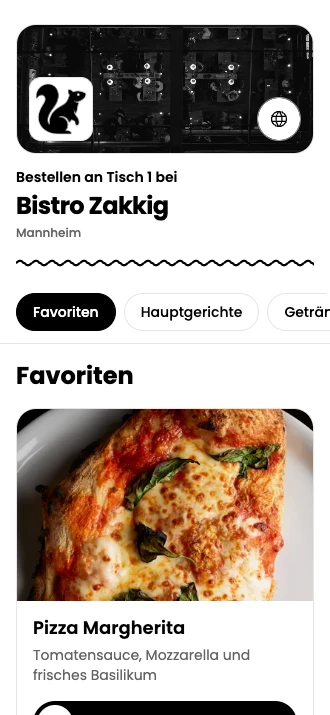
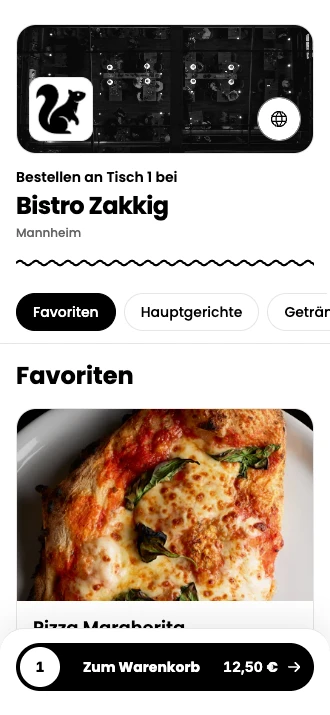
matched benefit prefix and payment fee note font size with section sublines and added single-item scenario to marketing demo and recaptured first phone product demo screenshots with one item in cart and updated design system documentation

Changed region(s): [[0.0303, 0.8615, 0.9697, 1.0]]

diff --git a/webapp/tools/marketing-demo/main.tsx b/webapp/tools/marketing-demo/main.tsx
@@ -230,23 +230,33 @@ useCartStore.setState({
   items:
     scenario === "empty-cart" || scenario === "modifiers"
       ? []
-      : [
-          {
-            id: "pizza-custom",
-            menuItemId: "pizza",
-            name: labels.dish,
-            price: 1500,
-            quantity: 1,
-            customizations: pizzaCustomizations,
-          },
-          {
-            id: "lemonade",
-            menuItemId: "lemonade",
-            name: labels.drink,
-            price: 450,
-            quantity: 1,
-          },
-        ],
+      : scenario === "single-item"
+        ? [
+            {
+              id: "pizza",
+              menuItemId: "pizza",
+              name: labels.dish,
+              price: 1250,
+              quantity: 1,
+            },
+          ]
+        : [
+            {
+              id: "pizza-custom",
+              menuItemId: "pizza",
+              name: labels.dish,
+              price: 1500,
+              quantity: 1,
+              customizations: pizzaCustomizations,
+            },
+            {
+              id: "lemonade",
+              menuItemId: "lemonade",
+              name: labels.drink,
+              price: 450,
+              quantity: 1,
+            },
+          ],
 });
 const orders = [1, 2, 3].map((n): Order => ({
   ...base,

diff --git a/website/components/MainPage.tsx b/website/components/MainPage.tsx
@@ -87,7 +87,7 @@ export function MainPage() {
           <p className="mx-auto mt-6 max-w-[38ch] text-[15px] leading-relaxed text-muted-foreground">{t("benefitService")}</p>
         </div>
         <div className="flex flex-col items-center text-center">
-          <p className="text-[13px] text-muted-foreground">{t("benefitPrefix")}</p>
+          <p className="text-[15px] text-muted-foreground">{t("benefitPrefix")}</p>
           <AnimatedBenefitStat target={30} unit="%" />
           <h3 className="text-lg font-semibold leading-[1.4] tracking-[-.02em]">{t("benefitMetric")}</h3>
           <a
@@ -143,7 +143,7 @@ export function MainPage() {
               {" "}
               <span>{t("feeLabel")}</span>
             </p>
-            <p className="mt-1.5 text-center text-xs text-muted-foreground">
+            <p className="mt-1.5 text-center text-[15px] text-muted-foreground">
               {t("feeNote")}
             </p>
           </div>

diff --git a/docs/design-system.md b/docs/design-system.md
@@ -65,7 +65,7 @@ The [website QR showcase](../website/components/QrCodeShowcase.tsx) renders a re
 <a id="ds-website"></a>
 ## DS-07: Marketing website
 
-[MainPage](../website/components/MainPage.tsx) keeps the editorial hero, QR sheet, product views, setup flow, pricing, FAQ, and signup action. [Header](../website/components/Header.tsx) uses translated native hash links and an accessible mobile menu with Escape dismissal and focus return. [ProductDemo](../website/components/ProductDemo.tsx) renders the committed DE/EN captures at standard iPhone dimensions (`w-[285px] h-[590px]`, 330x715px) and tablet dimensions (`1200x710px`) with collapsed sidebar; the second phone screen capture (`de-pay.webp`, `en-pay.webp`) demonstrates the open checkout dialog displaying the checked confirmation email toggle, focused email input field, and intermediary disclaimers without active focus rings on the close action. The page uses the shared button roles and 4px scale; static layout is authored in Tailwind JSX, with [global CSS](../website/app/globals.css) reserved for tokens and base behavior. [AnimatedBenefitStat](../website/components/AnimatedBenefitStat.tsx) animates on intersection and jumps to its target under reduced motion.
+[MainPage](../website/components/MainPage.tsx) keeps the editorial hero, QR sheet, product views, setup flow, pricing, FAQ, and signup action. [Header](../website/components/Header.tsx) uses translated native hash links and an accessible mobile menu with Escape dismissal and focus return. [ProductDemo](../website/components/ProductDemo.tsx) renders the committed DE/EN captures at standard iPhone dimensions (`w-[285px] h-[590px]`, 330x715px) and tablet dimensions (`1200x710px`) with collapsed sidebar; the first phone screen capture (`de-scan.webp`, `en-scan.webp`) demonstrates the guest menu with one item added and the bottom floating cart banner; the second phone screen capture (`de-pay.webp`, `en-pay.webp`) demonstrates the open checkout dialog displaying the checked confirmation email toggle, focused email input field, and intermediary disclaimers without active focus rings on the close action. The page uses the shared button roles and 4px scale; static layout is authored in Tailwind JSX, with [global CSS](../website/app/globals.css) reserved for tokens and base behavior. [AnimatedBenefitStat](../website/components/AnimatedBenefitStat.tsx) animates on intersection and jumps to its target under reduced motion.
 
 The website uses viewport composition breakpoints and features a unified 100% light surface hierarchy across all sections and the footer, cleanly delineated by Zakkig's signature horizontal [WaveLine](../website/components/WaveLine.tsx) dividers in solid black (`text-black`, $16\,\text{px}$ wavelength, $12\,\text{px}$ height, $4.5\,\text{px}$ amplitude) as a core visual trademark, with the footer divider serving as the sole divider above the footer. On mobile viewports, the [footer](../website/components/SiteFooter.tsx) maintains deliberate breathing room between the MARS enterprise badge and legal links, and reduced distance to the squirrel mascot. Navigation and legal links render with tracked uppercase (`uppercase tracking-[0.08em]`) for distinct wayfinding, while buttons, dialog triggers, and body text use natural casing. Its QR paper shadow is an object treatment, not general elevation. [Page](../website/components/MainPage.tsx), [QR](../website/components/QrCodeShowcase.tsx), [footer](../website/components/SiteFooter.tsx).
 
